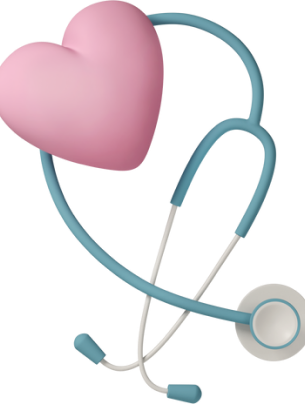
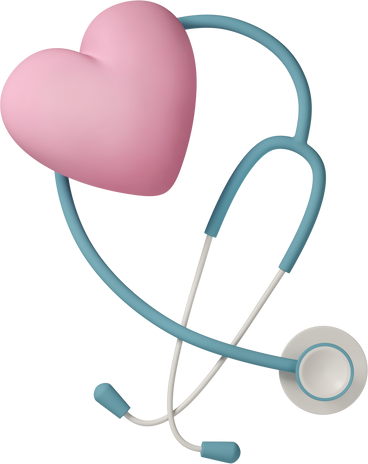
fix: responsividade

diff --git a/frontend/src/css/style-index.css b/frontend/src/css/style-index.css
@@ -10,12 +10,16 @@ body {
     position: absolute;
 }
 #presentation-img-stethoscope {
-    height: 60vh;
-    width: 100%;
+    top: 2vh;
+    height: 70vh;
+    right: 10px;
+    /* width: auto; */
+    /* left: 0; */
 }
 #presentation-img-nurse {
     height: 70vh;
-    right: 20px;
+    right: 0;
+    bottom: 15vh;
 }
 /* Fim imagens */
 
@@ -25,10 +29,10 @@ body {
     position: relative;
     place-content: center;
     gap: 5vh;
-    top: 62vh;
+    top: 66vh;
 }
 #title-bnt-h1-title h1 {
-    font-size: 2.5rem;
+    font-size: 3rem;
     letter-spacing: 3px;
     font-family: 'Fascinate';
     color: var(--color-dark-blue);
@@ -55,4 +59,69 @@ body {
 /* Fim Botão */
 
 /* Responsividade */
+/* S10 Plus - 420px */
+@media (max-width: 420px) {
+    #title-bnt {
+        gap: 5vh;
+        top: 62vh;
+    }
+}
+
+/* Oneplus Nord 2 - 412px */
+@media (max-width: 412px) {
+    #title-bnt {
+        gap: 5vh;
+        top: 68vh;
+    }
+}
+
+
+/* iPhone 13 PRO - 390px */
+@media (max-width: 395px) {
+    #presentation-img-nurse {
+        bottom: 12vh;
+        height: 80vh;
+    }
+    #title-bnt {
+        gap: 5vh;
+        top: 63vh;
+    }
+}
+
+/* iPhone 13 Mini - 375px */
+@media (max-width: 376px) {
+    #title-bnt {
+        gap: 5vh;
+        top: 62vh;
+    }
+}
+
+/* Galaxy S20 */
+@media (max-width: 360px) {
+    #title-bnt {
+        gap: 5vh;
+        top: 65vh;
+        color: aliceblue;
+    }
+}
+
 /* Proporções iPhone SE */
+@media (max-width: 320px ) {
+    #presentation-img-nurse {
+        height: 80vh;
+        bottom: 15vh;
+    }
+    #presentation-img-stethoscope {
+        height: 70vh;
+        width: auto;
+        left: 0;
+    }
+    #title-bnt {
+        gap: 5vh;
+        top: 55vh;
+    }
+    #title-bnt-h1-title h1 {
+        font-size: 2.3rem;
+    }
+}
+

diff --git a/index.html b/index.html
@@ -30,7 +30,7 @@
     <main>
         <div id="presentation">
             <img src="./frontend/src/img/3d-heart-and-stethoscope 1.png" alt="Estetoscopio com coração" id="presentation-img-stethoscope">
-            <img src="./frontend/src/img/3d-female-doctor-with-clipboard 1.png" alt="Enfermeira" id="presentation-img-nurse">
+            <img src="./frontend/src/img/3d-female-doctor-with-clipboard-cut.png" alt="Enfermeira" id="presentation-img-nurse">
         </div>
         
         
